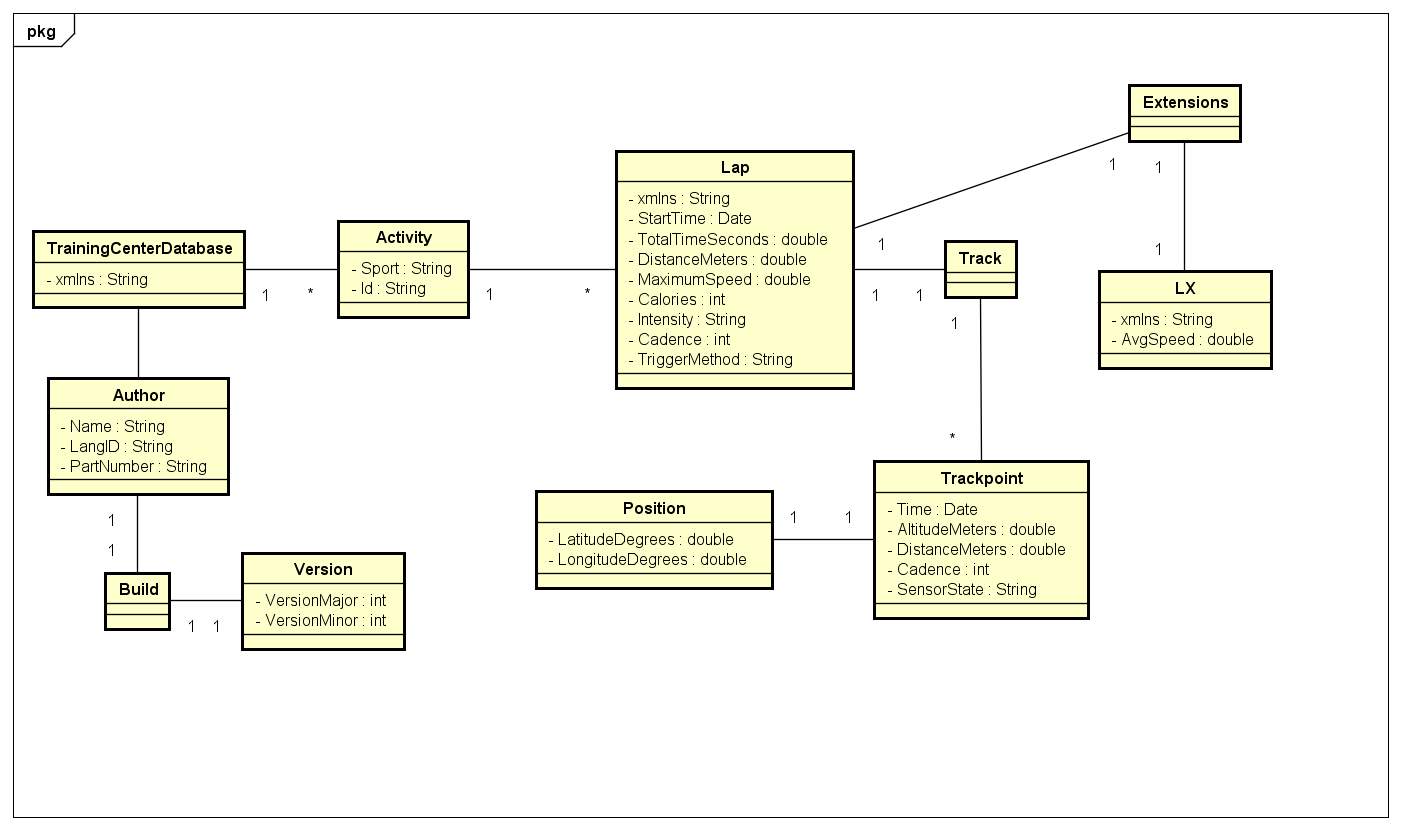
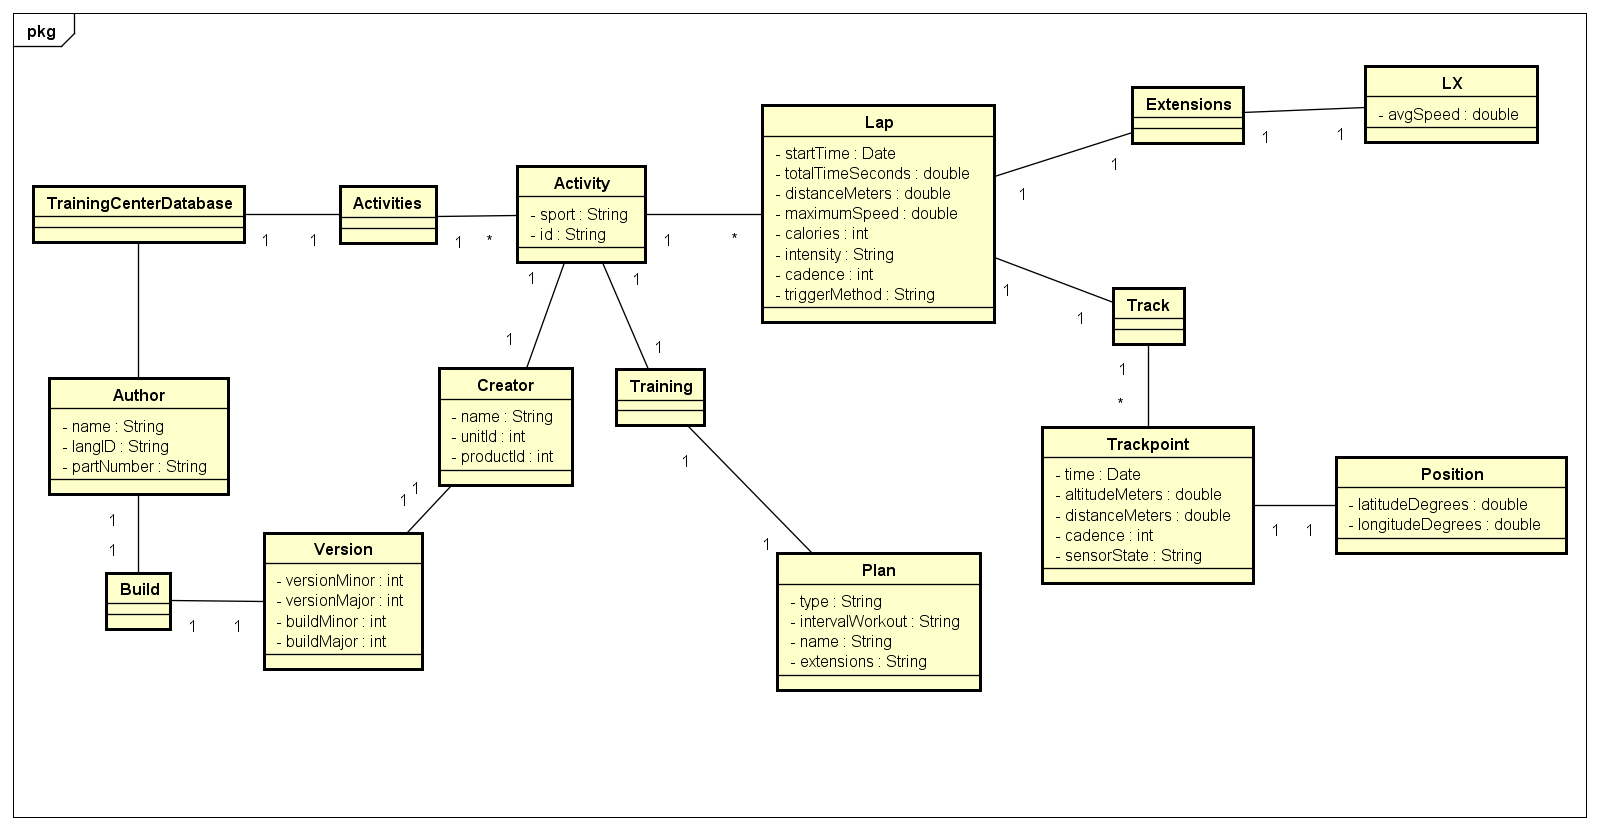
Atualizado Modelo

diff --git a/TrainingCenterDatabaseModel/src/main/java/br/com/trainingcenter/model/Activity.java b/TrainingCenterDatabaseModel/src/main/java/br/com/trainingcenter/model/Activity.java
@@ -27,6 +27,10 @@ public class Activity {
     private Date id;
     @XmlElement(name="Lap")
     private List<Lap> laps;
+    @XmlElement(name="Training")
+    private Training training;
+    @XmlElement(name="Creator")        
+    private Creator creator;
 
     public Activity() {
     }
@@ -93,6 +97,34 @@ public class Activity {
      */
     public void remLap(int index){
         laps.remove(index);
+    }
+
+    /**
+     * @return the training
+     */
+    public Training getTraining() {
+        return training;
+    }
+
+    /**
+     * @param training the training to set
+     */
+    public void setTraining(Training training) {
+        this.training = training;
+    }
+
+    /**
+     * @return the creator
+     */
+    public Creator getCreator() {
+        return creator;
+    }
+
+    /**
+     * @param creator the creator to set
+     */
+    public void setCreator(Creator creator) {
+        this.creator = creator;
     }
     
 }
